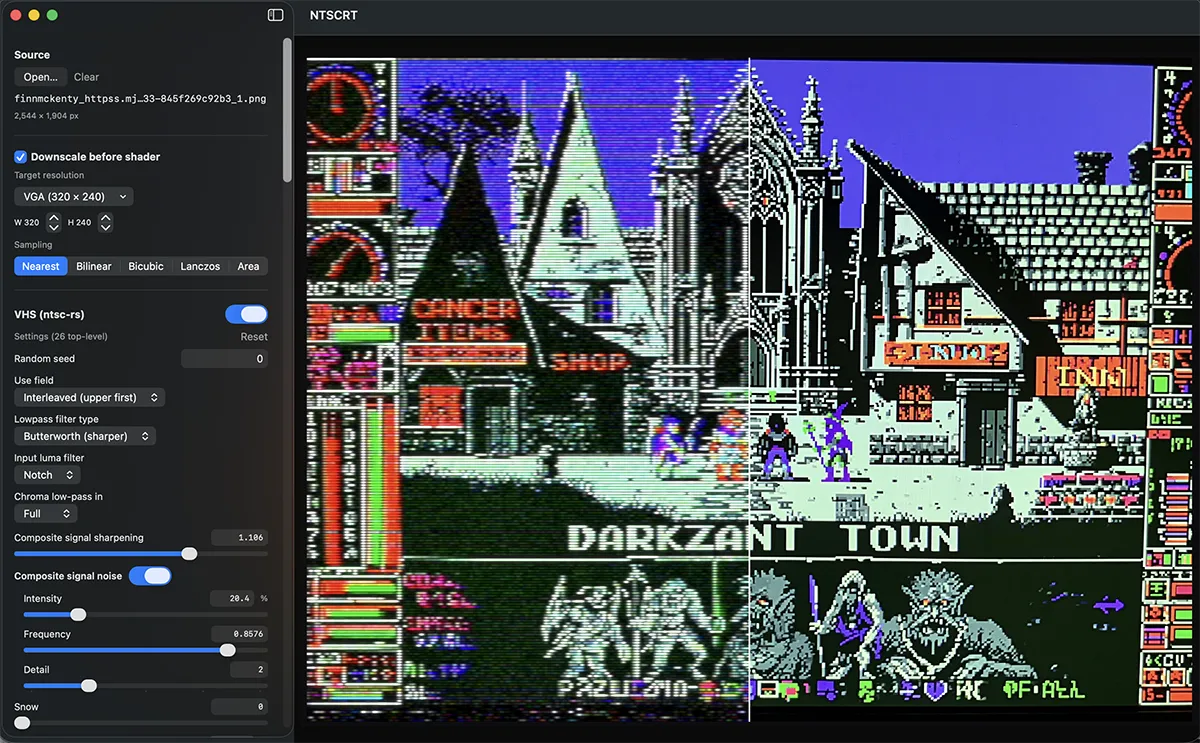
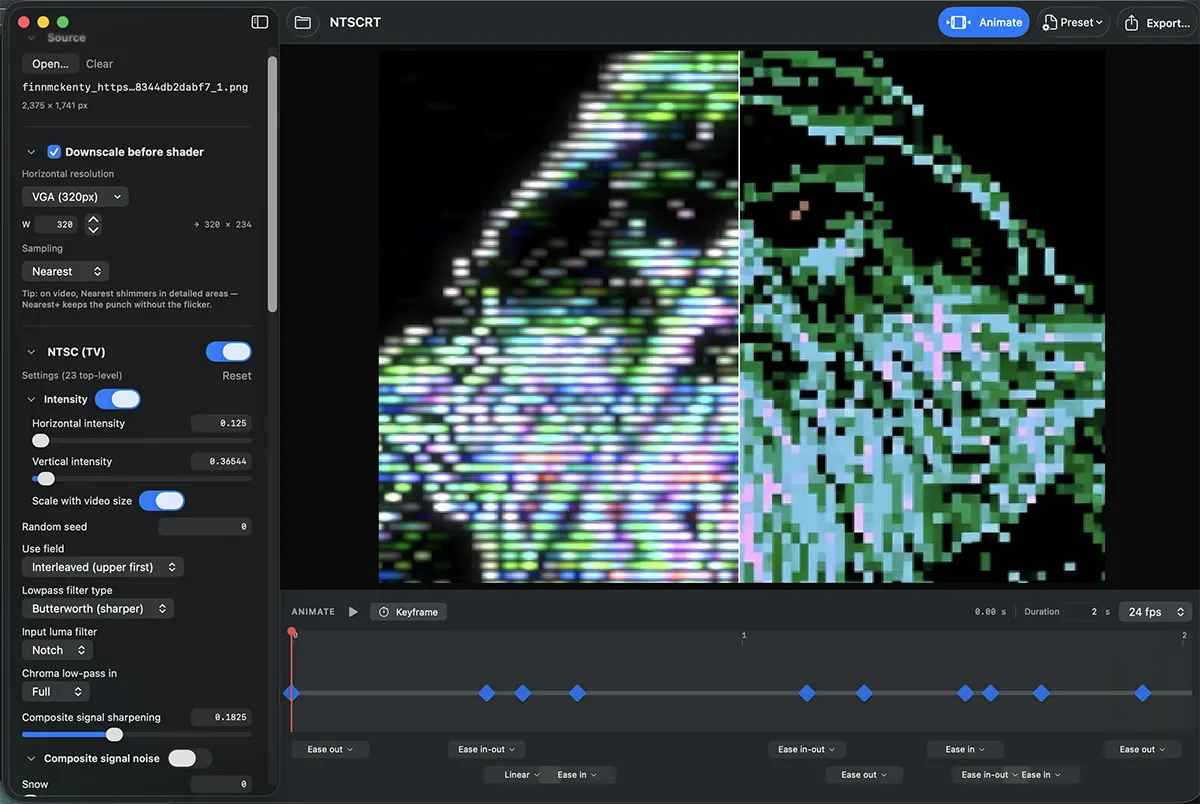
README: new header image
Shows the current app — renamed sidebar sections, the Animate timeline with
per-keyframe easing, and the compare split.

diff --git a/README.md b/README.md
@@ -1,6 +1,6 @@
 # NTSCRT
 
-![NTSCRT — full VHS + CRT pipeline on the left of the split, untouched source on the right](docs/header.webp)
+![NTSCRT — the full NTSC + CRT pipeline on the left of the compare split, untouched source on the right, with a keyframed animation on the timeline below](docs/header.webp)
 
 **Make any image or video look like it's playing on a 1980s TV.** NTSCRT runs your media through a real analog signal emulation ([ntsc-rs](https://github.com/ntsc-rs/ntsc-rs) — composite artifacts, tape noise, head switching) and then through RetroArch's CRT shaders (via [librashader](https://github.com/SnowflakePowered/librashader) — scanlines, phosphor masks, glow), frame-identical to RetroArch itself.
 
